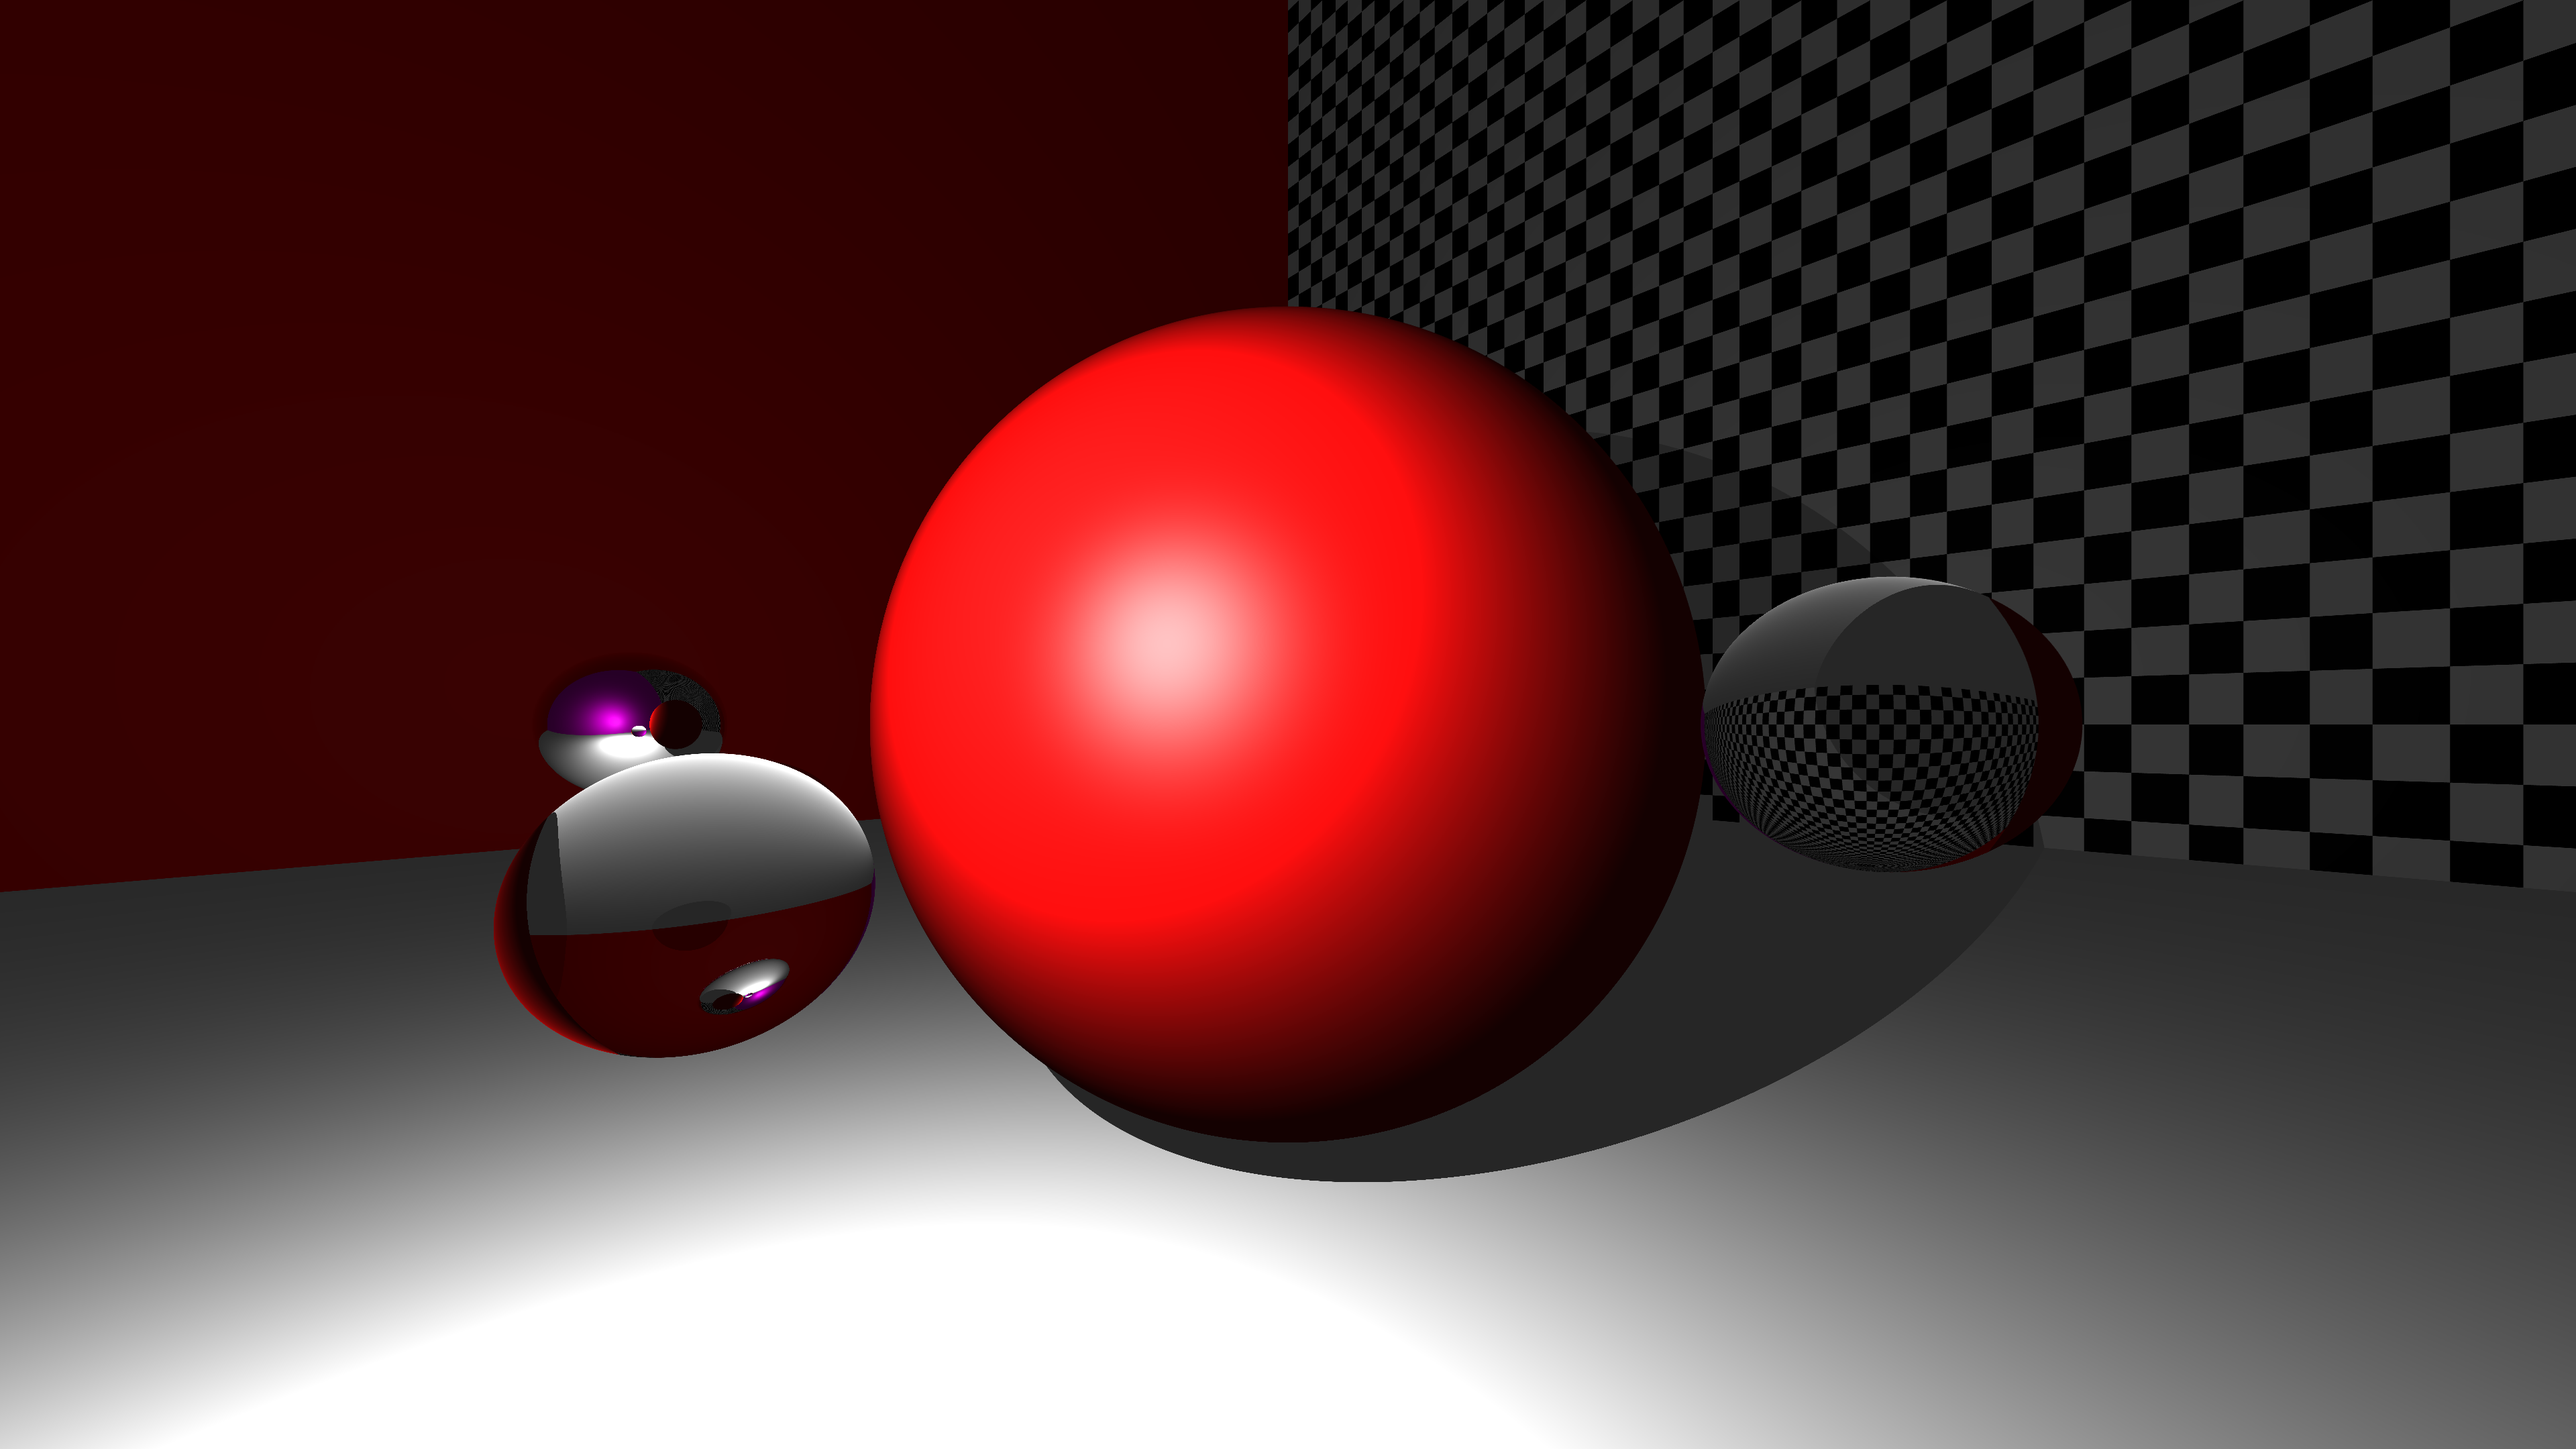
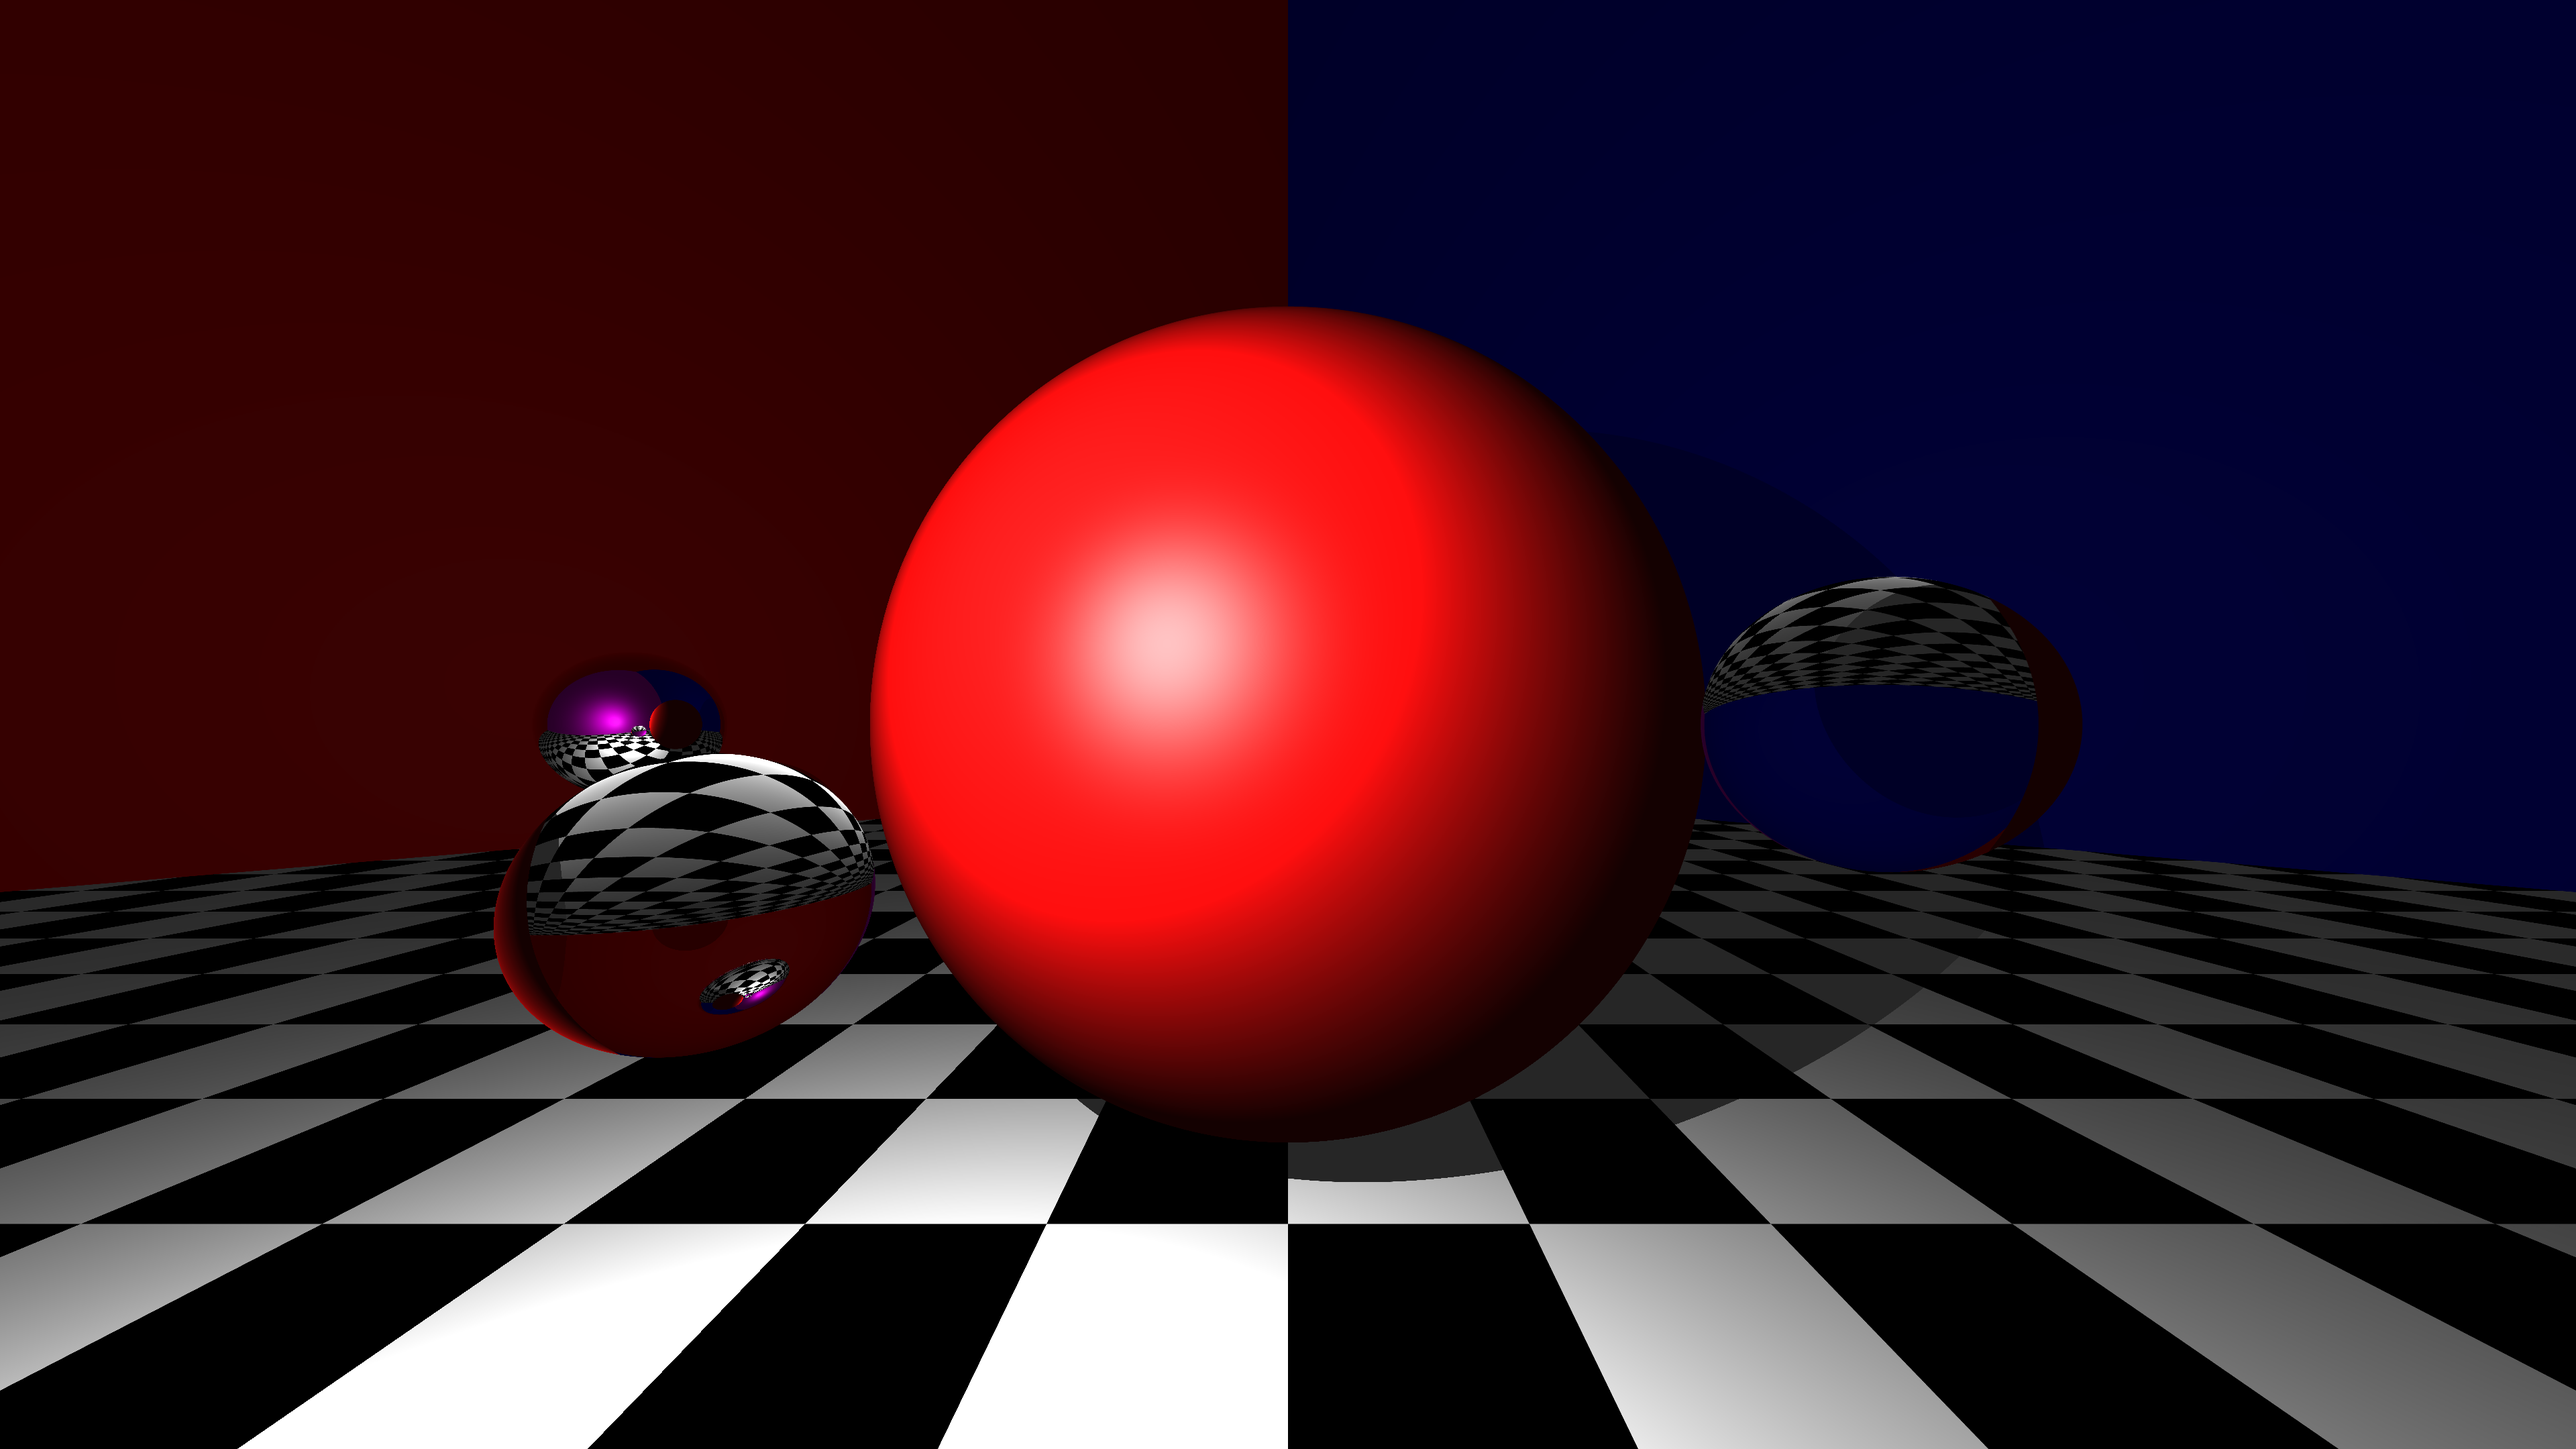
make floor checker in default. rerender

diff --git a/src/tracer/scene.rs b/src/tracer/scene.rs
@@ -132,31 +132,25 @@ impl Scene {
                 Plane::new(
                     DVec3::new(0.0, -0.5, 0.0),
                     DVec3::new(0.0, 1.0, 0.0),
-                    Material::Phong(Texture::Solid(
-                        DVec3::ONE
-                    )),
+                    Material::Phong(Texture::Checkerboard),
                 ),
                 // right
                 Plane::new(
                     DVec3::new(3.0, 0.0, -3.0),
                     DVec3::new(-1.0, 0.0, 1.0),
-                    Material::Phong(Texture::Checkerboard),
+                    Material::Phong(Texture::Solid(DVec3::new(0.0, 0.0, 1.0))),
                 ),
                 // left
                 Plane::new(
                     DVec3::new(-3.0, 0.0, -3.0),
                     DVec3::new(1.0, 0.0, 1.0),
-                    Material::Phong(Texture::Solid(
-                        DVec3::new(1.0, 0.0, 0.0)
-                    )),
+                    Material::Phong(Texture::Solid(DVec3::new(1.0, 0.0, 0.0))),
                 ),
                 // behind
                 Plane::new(
                     DVec3::new(0.0, 0.0, 1.0),
                     DVec3::new(0.0, 0.0, -1.0),
-                    Material::Phong(Texture::Solid(
-                        DVec3::new(1.0, 0.0, 1.0)
-                    )),
+                    Material::Phong(Texture::Solid(DVec3::new(1.0, 0.0, 1.0))),
                 ),
                 Sphere::new(
                     DVec3::new(0.0, 0.0, -1.0),

diff --git a/src/tracer/texture.rs b/src/tracer/texture.rs
@@ -11,8 +11,8 @@ impl Texture {
         match self {
             Solid(c) => c.clone(),
             Checkerboard => {
-                // very dependant on s
-                let s = 17.0;
+                // if looks bad, try to tune s
+                let s = 13.0;
                 if (s*p.x).sin() * (s*p.y).sin() * (s*p.z).sin() > 0.0 {
                     DVec3::ZERO
                 } else {
